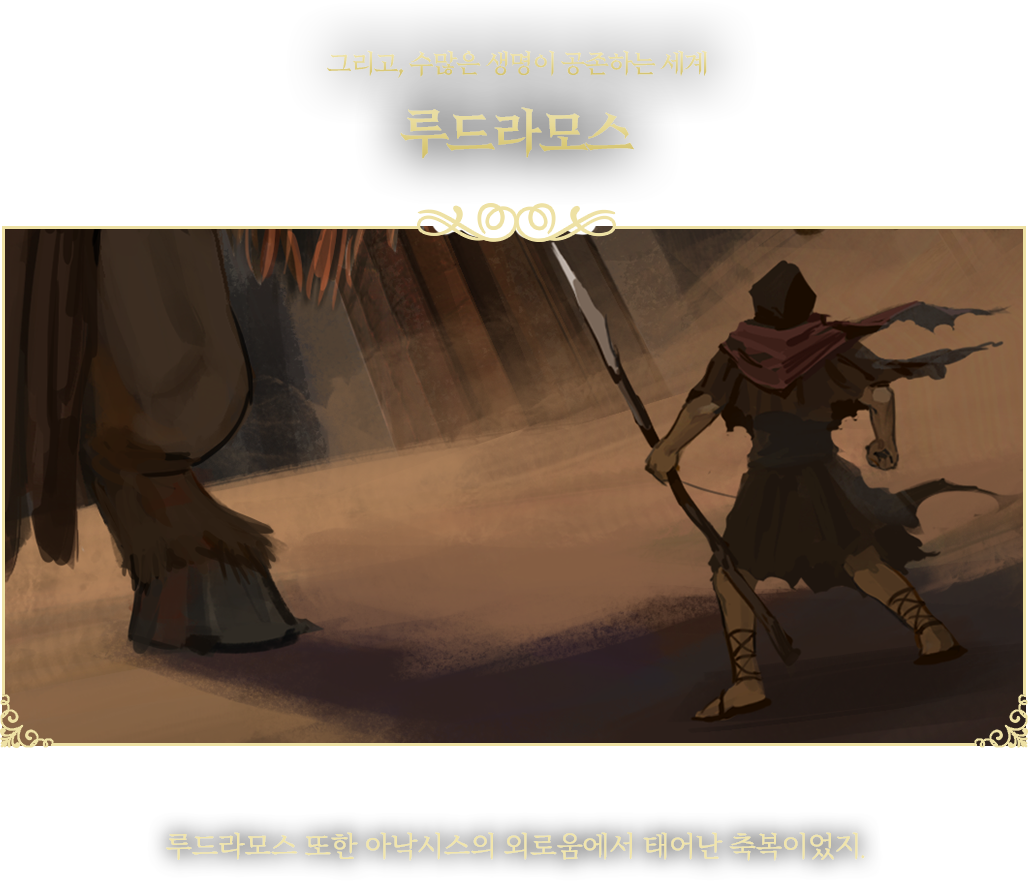
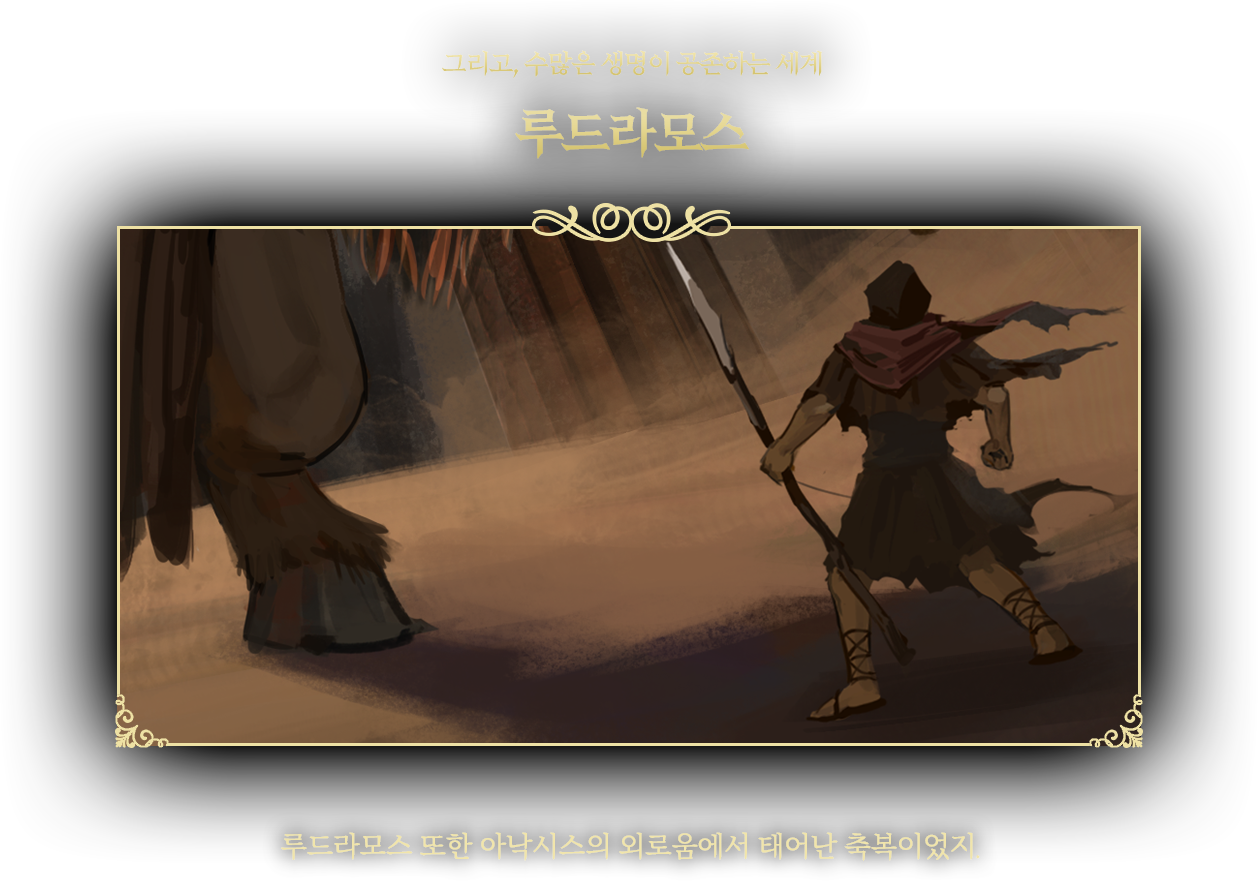
Add files via upload

diff --git a/index.html b/index.html
@@ -8,13 +8,14 @@
    
     <title>Document</title>
 </head>
-<body>
+<body>  
 
-      <!-- <div class="nav"> -->
-        <div class="menu_btn"><img src="menu_btn.png"></div>
+
+
         <div class="nav">
-          
+          <div class="menu_btn"><img src="menu_btn.png"></div>
           <div class="menu_box" id="menu_box">
+         
             <!-- <div class="menu_name">
               <ul>
                 <li>공지사항</li>
@@ -25,25 +26,12 @@
             </div> -->
           </div>
         </div>
-        <!-- <div class="home_left">
-          <div class="eng_logo">
-            <a href="index.html"><img src="홈페이지/인덱스/eng_logo.png"></a>
-          </div>
-          <div class="notice_top">
-            <a href="notice.html"><img src="홈페이지/인덱스/notice.png"></a>
-          </div>
-          <div class="world_top">
-            <a href="#"><img src="홈페이지/인덱스/world_top.png"></a>
-          </div>
-          <div class="system_top">
-            <a href="#"><img src="홈페이지/인덱스/system_top.png"></a>
-          </div>
-          <div class="story_top">
-            <a href="#"><img src="홈페이지/인덱스/story_top.png"></a>
-          </div>
-        </div> -->
+        
 
+        <!-- 상단고정 -->
+       
         <div class="sns_top">
+        <div class="eng_logo"><img src="eng_logo.png"></div>
           <div class="twitter_top">
             <a href="https://twitter.com/origin_2023"><img src="twitter_top.png"></a>
           </div>
@@ -56,6 +44,7 @@
       </div>
 
 
+      <!-- 메인컷 -->
 
       <div class="section">
 
@@ -63,6 +52,7 @@
         <div class="form_top"><a href="https://bit.ly/3Lntqoq"><img src="main_btn.png"></a></div>
 
         
+      <!-- 신청서접수 -->
 
       </div>
       <div class="section">
@@ -75,11 +65,29 @@
         <div class="main_cut"><img src="main_cut.png"></div>
         <div class="back_img_fixed"><img src="back_02.png"></div>
       </div>
+
+      <!-- 공세신 -->
+
       <div class="section">
+        <div class="world_click"><img src="click.png"></div>
+        <div class="world"><img src="world.png"></div>
+        <div class="position"><img src="position.png"></div>
+        <div class="position_click"><img src="click.png"></div>
+        <div class="system_click"><img src="click.png"></div>
+        <div class="system"><img src="system.png"></div>
+
+        <div class="back_img_fixed"><img src="back_02.png"></div>
+        <div class="shadow"><img src="shadow.png"></div>
         <div class="end"></div>
 
+      <!-- 커뮤니티 -->
+
+        
 
       </div>
+
+      <div class="section"></div>
+      
 
 
 

diff --git a/index.css b/index.css
@@ -12,8 +12,58 @@ body{
     margin: 0;
     padding: 0;
     overflow: hidden;
-    background-color:black;
+    background-image: url("index_back.png");
     }
+
+
+.world{
+    position: absolute;
+    top:3200px;
+    left: 250px;
+}
+
+
+
+.world_click{
+    position: absolute;
+    top: 3500px;
+    left: 410px;
+    z-index: 9;
+}
+
+.position{
+    position: absolute;
+    top: 3200px;
+    left: 570px;
+}
+
+.position_click{
+    position: absolute;
+    top: 3500px;
+    left: 730px;
+}
+
+
+.system{
+    position: absolute;
+    top:3200px;
+    left: 890px;
+}
+
+.system_click{
+    position: absolute;
+    top: 3500px;
+    left: 1050px;
+    z-index: 3;
+}
+
+
+
+.shadow{
+    position: absolute;
+    top: 3550px;
+    left: 330px;
+}
 
 .sns_top{
     position: fixed;
@@ -64,12 +114,7 @@ body{
     height: auto;
 }
 
-.eng_logo {
-    
-    left: 30px;
-    position: relative;
-    display:inline;
-}
+
 
 .notice_top{
     top: -20px;
@@ -101,9 +146,15 @@ body{
     
 }
 
+.eng_logo {
+    top: 20px;
+    left: 30px;
+    position: absolute;
+    display:fixed;
+}
 .twitter_top{
     top: 20px;
-    left: 1850px;
+    left: 1840px;
     position: absolute;
 }
 
@@ -129,7 +180,7 @@ body{
 .main_cut{
     position: absolute;
     top: 1970px;
-    left: 440px;
+    left: 330px;
     z-index: 9;
 }
 
@@ -157,48 +208,6 @@ body{
     z-index: 9;
 }
 
-.world{
-    position: absolute;
-    top: 2811px;
-}
-
-.world:hover{
-    transform:scale(1.03);
-    transition: transform .7s;
-}
-
-.position{
-    position: absolute;
-    left: 480px;
-    top: 2811px;
-}
-
-.position:hover{
-    transform:scale(1.03);
-    transition: transform .7s;
-}
-
-.system{
-    position: absolute;
-    left: 960px;
-    top: 2811px;
-}
-
-.system:hover{
-    transform:scale(1.03);
-    transition: transform .7s;
-}
-
-.story{
-    position: absolute;
-    left: 1440px;
-    top: 2811px;
-}
-
-.story:hover{
-    transform:scale(1.03);
-    transition: transform .7s;
-}
 
 .left_img{
     top:300px;
